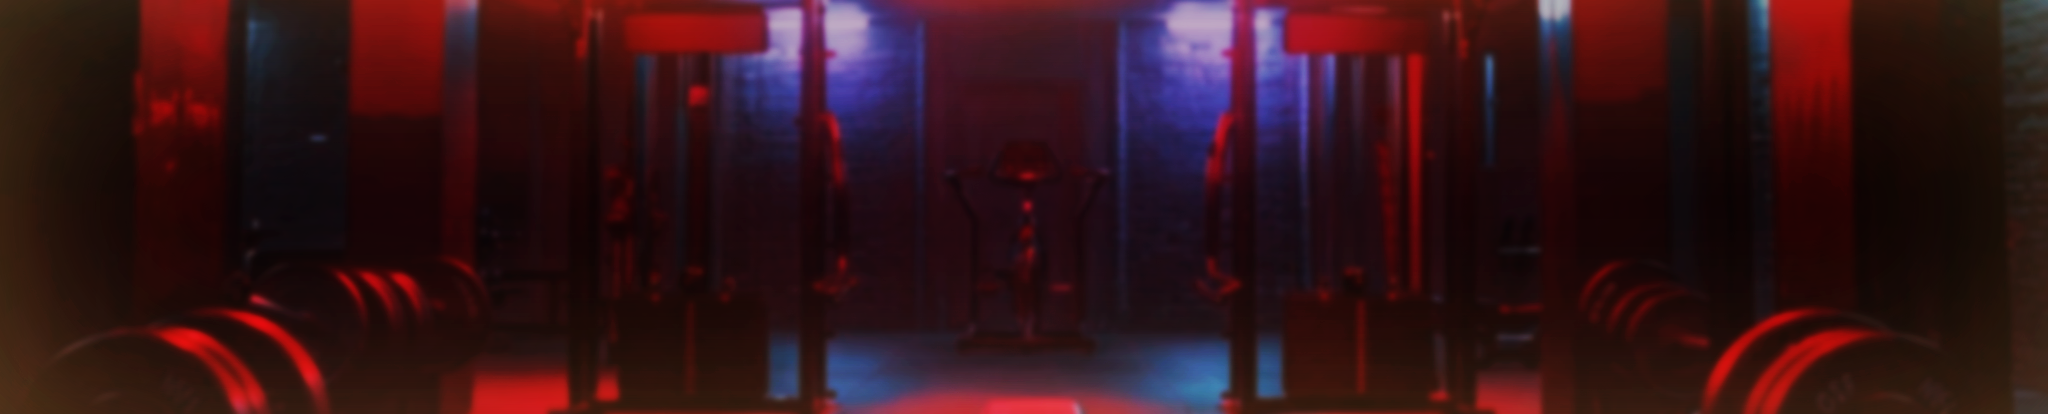
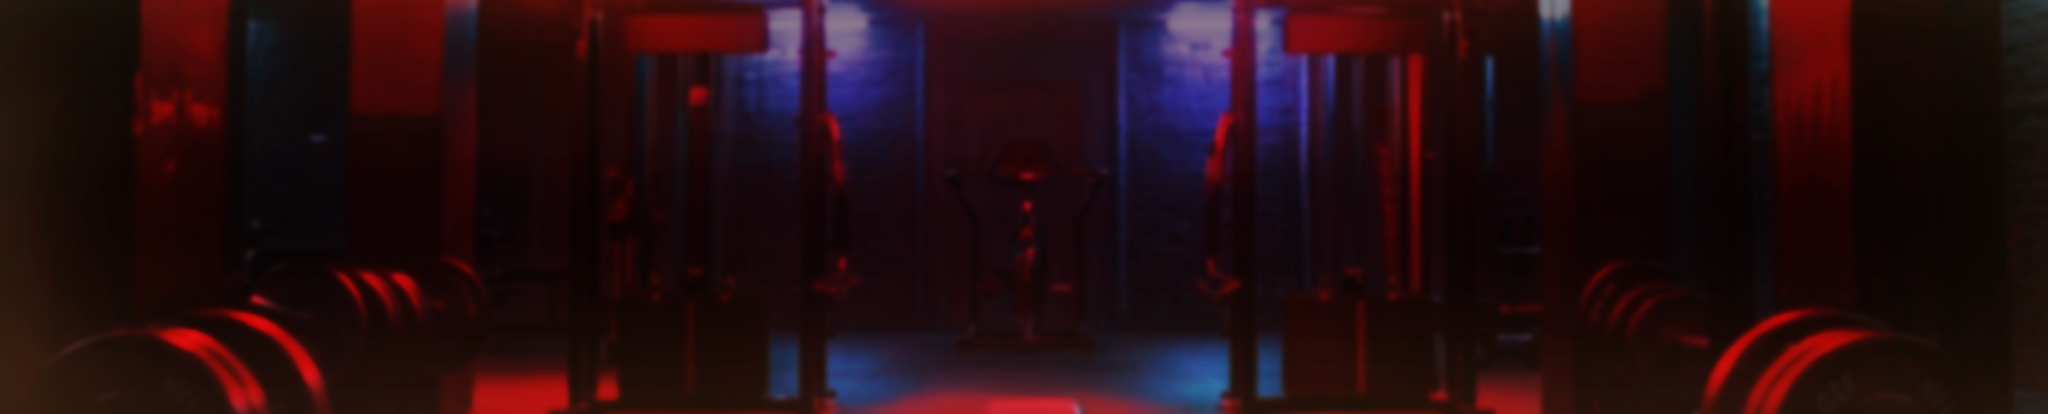
Responsive Edits

diff --git a/src/Components/FooterHeroSection/FooterHeroSection.jsx b/src/Components/FooterHeroSection/FooterHeroSection.jsx
@@ -1,7 +1,6 @@
 import { Box, Button, Typography, Container } from "@mui/material";
 import { Link } from "react-router-dom";
 
-
 const FooterHeroSection = () => {
   return (
     <Box
@@ -9,7 +8,7 @@ const FooterHeroSection = () => {
         backgroundImage: `url('/images/Footer-Hero.png')`,
         backgroundSize: "cover",
         backgroundPosition: "center",
-        height: "300px",
+        height: "270px",
         display: "flex",
         alignItems: "center",
         justifyContent: "center",
@@ -28,7 +27,7 @@ const FooterHeroSection = () => {
         </Typography>
         <Typography
           variant="h6"
-          sx={{ mb: 2, fontSize: { md: "20px", xs: "12px" } }}
+          sx={{ mb: 2, fontSize: { md: "20px", xs: "11px" } }}
         >
           Join us today and start your journey to a healthy and strong body.
         </Typography>

diff --git a/src/Components/Footer/Footer.jsx b/src/Components/Footer/Footer.jsx
@@ -9,7 +9,8 @@ const Footer = () => {
       sx={{
         backgroundColor: "#D32F2F",
         color: "white",
-        py: 10,
+        pt: 10,
+        pb: { sm: 10, xs: 7 },
       }}
     >
       <Container>
@@ -107,7 +108,7 @@ const Footer = () => {
             </Box>
           </Grid>
         </Grid>
-        <Box textAlign="center" mt={10}>
+        <Box textAlign="center" mt={7}>
           <Typography variant="body2">
             © {new Date().getFullYear()} Bilal Mourad. All rights reserved.
           </Typography>

diff --git a/src/Components/SearchExercises/SearchExercises.jsx b/src/Components/SearchExercises/SearchExercises.jsx
@@ -44,11 +44,10 @@ const SearchExercises = () => {
       >
         What&apos;s Your Workout Goal <br /> for Today?
       </Typography>
-      <Box style={{ margin: "50px", position: "relative" }}>
+      <Box style={{ margin: "50px", position: "relative" }} sx={{}}>
         <TextField
           placeholder="Search for exercises"
           sx={{
-            height: "px",
             width: { lg: "800px", xs: "350px" },
             input: { border: "none", borderRadius: "4px" },
             borderRadius: "40px",

diff --git a/src/Components/HeroBanner/HeroBanner.jsx b/src/Components/HeroBanner/HeroBanner.jsx
@@ -55,7 +55,15 @@ const HeroBanner = () => {
       >
         Smile, Build Strength <br /> & Stay Consistent
       </Typography>
-      <Typography lineHeight={"35px"} mb={4} color="gray">
+      <Typography
+        lineHeight={"35px"}
+        mb={4}
+        color="gray"
+        sx={{
+          fontSize: { sm: "16px", xs: "" },
+          display: { sm: "block", xs: "none" },
+        }}
+      >
         Boost Your Fitness with Proven Exercises
       </Typography>
       <Link to="/exercises">

diff --git a/src/App.css b/src/App.css
@@ -110,7 +110,7 @@ body {
 .bodyPart-card {
   transform: scale(1, 1);
   transition: 0.3s all ease-in-out;
-  background-color: #ffd5d518;
+  background-color: #ffd5d58e;
   border-radius: 5%;
 }
 
